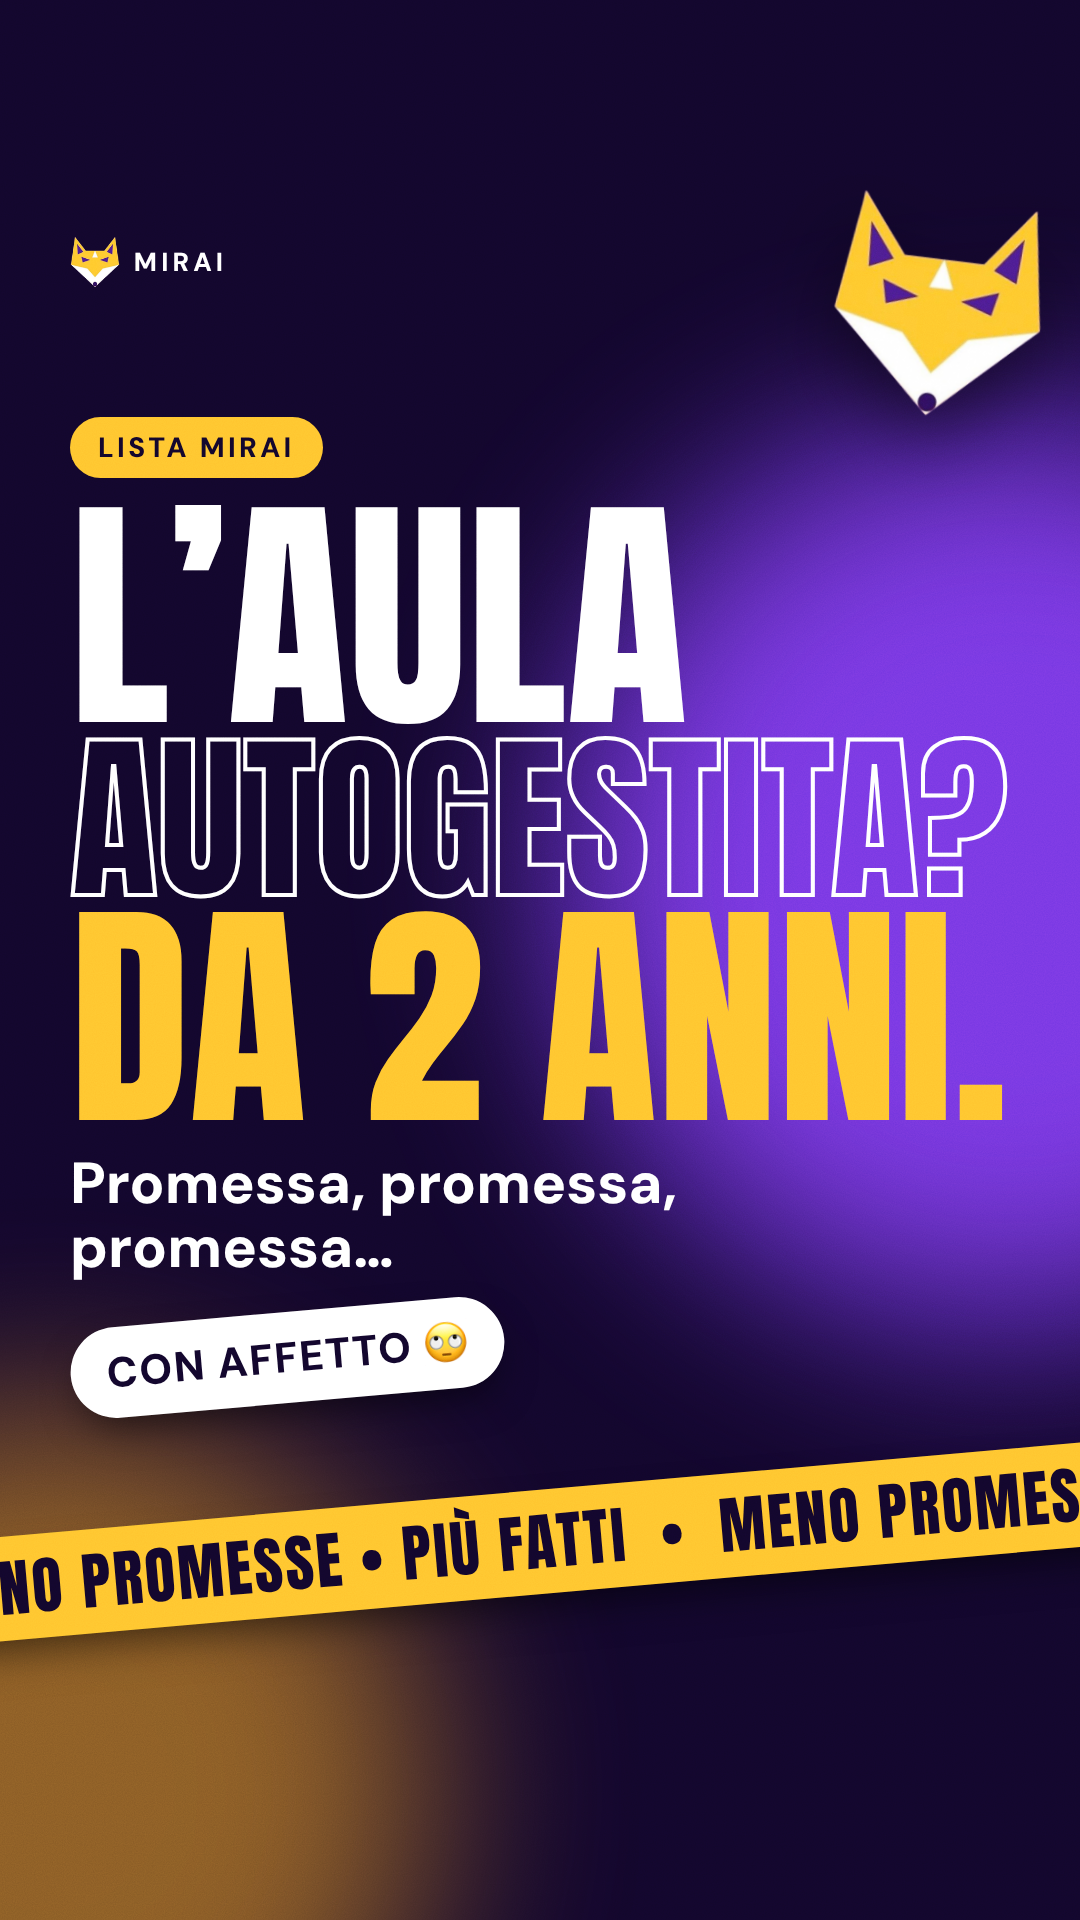
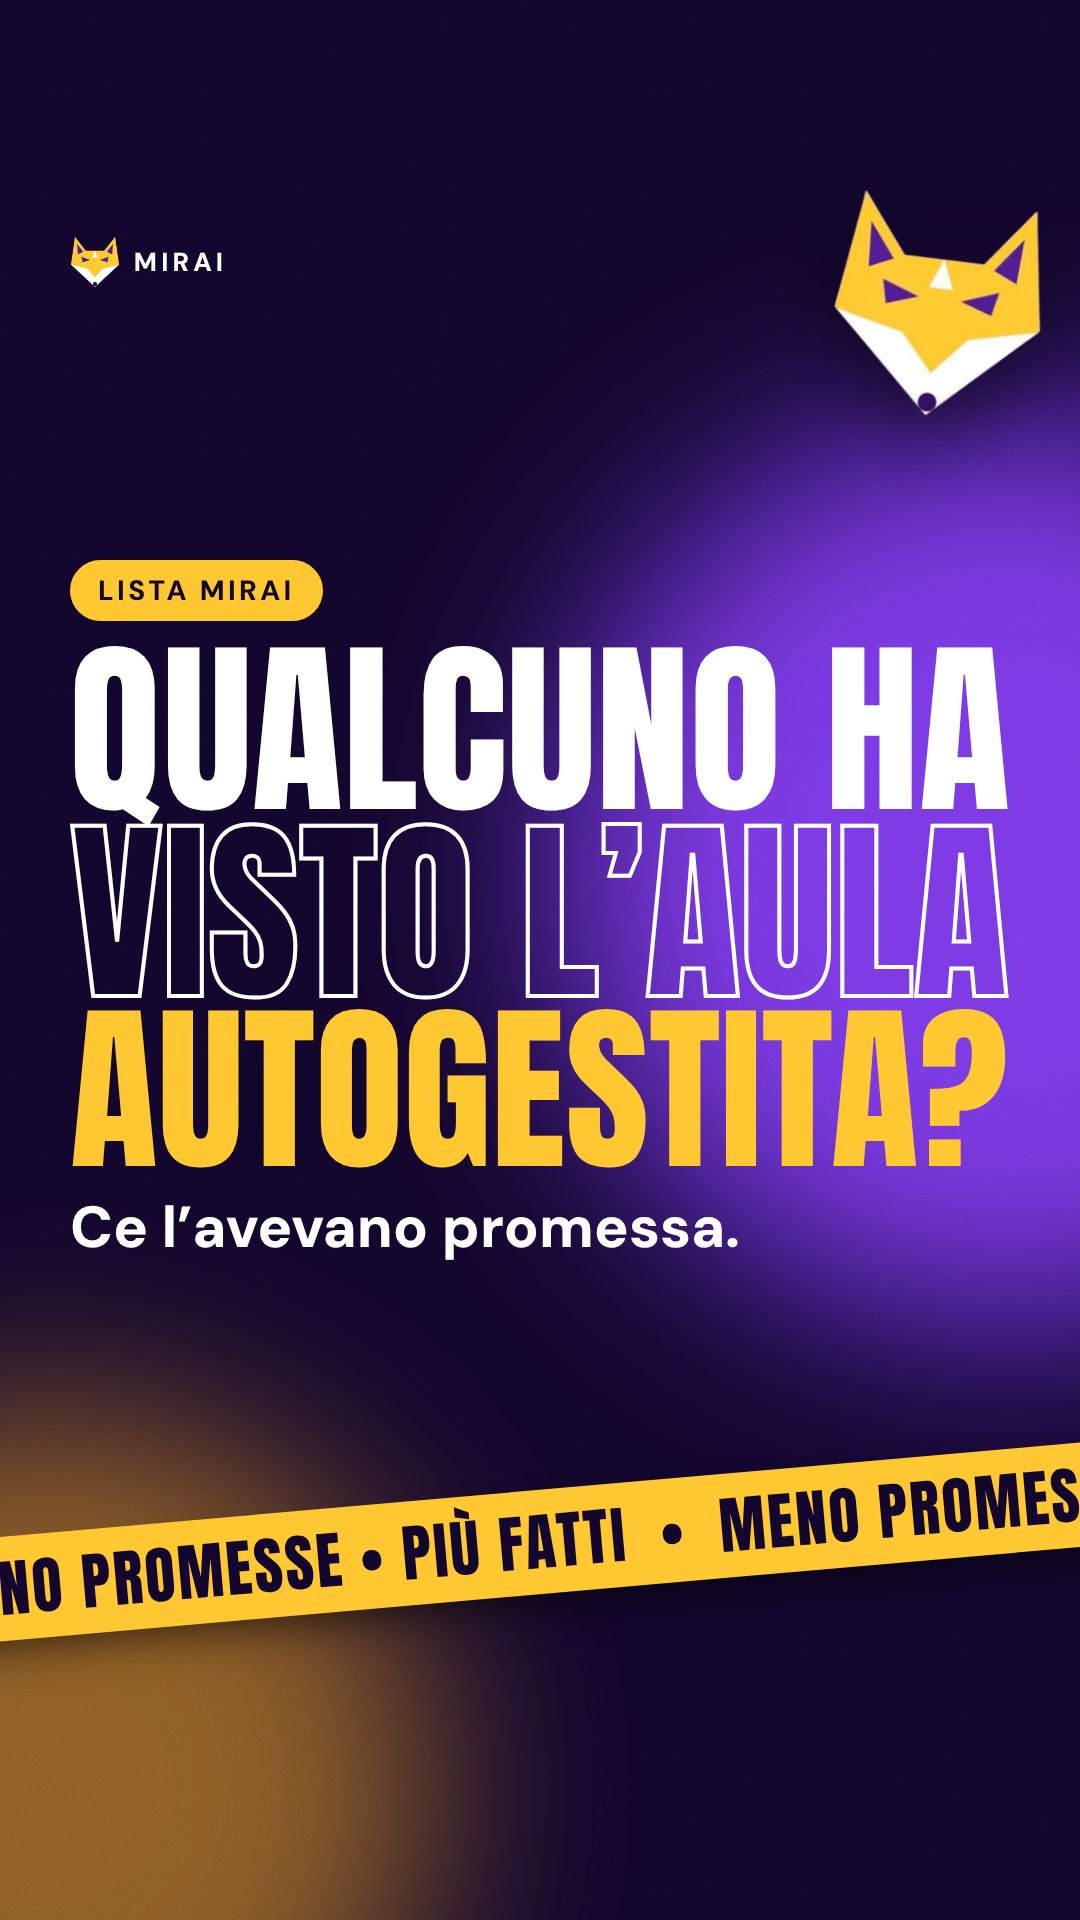
Storia aula autogestita: versione a domanda, senza i due anni
Claude-Session: https://claude.ai/code/session_01R2EF8p8tCb9WtiTgwavMfk

Changed region(s): [[0.0611, 0.2188, 0.9472, 0.75]]

diff --git a/social/storie/storie.html b/social/storie/storie.html
@@ -443,32 +443,15 @@ body{background:#000;font-family:"DM Sans",sans-serif}
  <div class="safe">
   
   <span class="kick">Lista Mirai</span>
-  <div class="h"><div class="A fit w" data-max="250">L’aula</div><div class="A fit o" data-max="250">autogestita?</div><div class="A fit g" data-max="250">Da 2 anni.</div></div>
-  <div class="sub">Promessa, promessa, promessa…</div>
+  <div class="h"><div class="A fit w" data-max="250">Qualcuno ha</div><div class="A fit o" data-max="250">visto l’aula</div><div class="A fit g" data-max="250">autogestita?</div></div>
+  <div class="sub">Ce l’avevano promessa.</div>
   
   
   
   
-  <span class="sticker">Con affetto <img src="../campagna/img/apple-eyeroll.png" style="height:1.05em;vertical-align:-.15em"></span>
+  
  </div>
  <img class="fox" src="../../assets/fox.png" alt="">
- <div class="tape" style="top:1490px"><span>Meno promesse • Più fatti</span><span>•</span><span>Meno promesse • Più fatti</span><span>•</span><span>Meno promesse • Più fatti</span><span>•</span><span>Meno promesse • Più fatti</span><span>•</span></div>
- 
-</section><section class="story v1 hastape" id="s25" data-name="provocatorie/12-aula-attesa">
- <div class="blob b1"></div><div class="blob b2"></div>
- <div class="brand"><img src="../../assets/fox-96.png" alt="">Mirai</div>
- <div class="safe">
-  
-  <span class="kick">Lista Mirai</span>
-  <div class="h"><div class="A fit w" data-max="250">Due anni</div><div class="A fit o" data-max="250">di promesse</div><div class="A fit g" data-max="250">sull’aula.</div></div>
-  <div class="sub">Noi intanto ci mettiamo al lavoro.</div>
-  
-  
-  
-  
-  <span class="sticker">Con calma <img src="../campagna/img/apple-smirk.png" style="height:1.05em;vertical-align:-.15em"></span>
- </div>
- 
  <div class="tape" style="top:1490px"><span>Meno promesse • Più fatti</span><span>•</span><span>Meno promesse • Più fatti</span><span>•</span><span>Meno promesse • Più fatti</span><span>•</span><span>Meno promesse • Più fatti</span><span>•</span></div>
  
 </section>

diff --git a/social/storie/build.js b/social/storie/build.js
@@ -29,8 +29,7 @@ const S = [
  { k:P, id:'08-chi-parla-chi-fa', kicker:'Lista Mirai', lines:[['Chi parla.','o'],['Chi fa.','g']], sub:'Indovina chi siamo. 😉', tape:'Chi parla • Chi fa • Chi parla • Chi fa' },
  { k:P, id:'09-non-i-migliori', kicker:'Lista Mirai', lines:[['Non diciamo','w'],['che siamo','w'],['i migliori.','o']], sub:'Lo dicono i 16 progetti.', sticker:'Fatti, non parole 💜' },
  { k:P, id:'10-due-domande', kicker:'Lista Mirai', lines:[['Fatevi','w'],['due','o'],['domande.','g']], sub:'Poi guardate i nostri 16 progetti.', tape:'Servivamo noi • Servivamo noi', fox:'br' },
- { k:P, id:'11-aula-autogestita', kicker:'Lista Mirai', lines:[['L’aula','w'],['autogestita?','o'],['Da 2 anni.','g']], sub:'Promessa, promessa, promessa…', sticker:'Con affetto', emoji:'apple-eyeroll.png', tape:'Meno promesse • Più fatti', fox:'br' },
- { k:P, id:'12-aula-attesa', kicker:'Lista Mirai', lines:[['Due anni','w'],['di promesse','o'],['sull’aula.','g']], sub:'Noi intanto ci mettiamo al lavoro.', sticker:'Con calma', emoji:'apple-smirk.png', tape:'Meno promesse • Più fatti' },
+ { k:P, id:'11-aula-autogestita', kicker:'Lista Mirai', lines:[['Qualcuno ha','w'],['visto l’aula','o'],['autogestita?','g']], sub:'Ce l’avevano promessa.', tape:'Meno promesse • Più fatti', fox:'br' },
 ];
 const blobs = [
  '.b1{width:900px;height:900px;background:#7c3aed;right:-380px;top:420px;opacity:.95}.b2{width:760px;height:760px;background:#ffb020;left:-330px;bottom:-250px;opacity:.5}',
